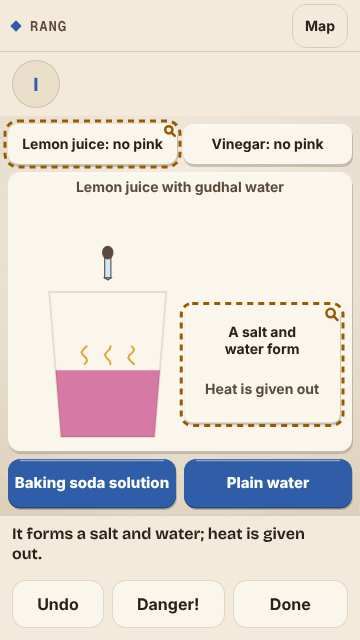
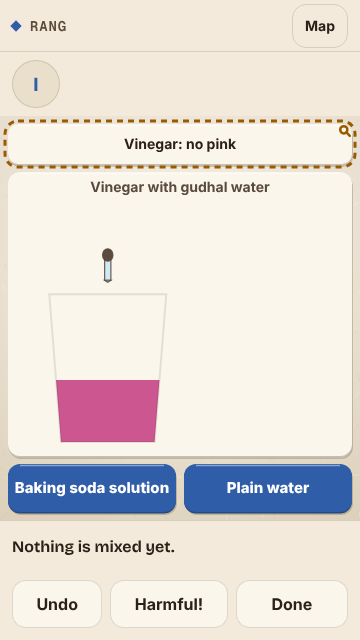
r7 rang: the harm-mix button is the child's claim, "Harmful!" / "Yeh nuksaan karega" (the lead's ruling)
The button was labelled "Danger!" / "Khatra!". It now reads as the child's
claim (t02 m1). The only answer is still the kit's "a salt and water form,
heat is given out": no alarm, no shake, no warning art. The test of rang's
words now also refuses "safe", "harmless", "surakshit" and the Hindi
equivalents. The harm-mix run shots were re-taken by real taps at 360x640,
with a Hinglish one added.

Claude-Session: https://claude.ai/code/session_01Uk49byMD7bvaWtBrGuMPkw

diff --git a/src/play/families/rang/rang.logic.ts b/src/play/families/rang/rang.logic.ts
@@ -28,7 +28,7 @@
 //                       stays blue for it too
 //   water-only (t02 m2) "Done" on a pink glass after plain water went in: water only dilutes; it stays pink, acidic
 //   too-much   (t02 m3) "Done" for no pink after more base than it needed: it has turned green, basic
-//   harm-mix   (t02 m1) "Danger!" once a base has gone into the acid: the label shows what forms, a salt and water (heat
+//   harm-mix   (t02 m1) the claim "Harmful!" ("Yeh nuksaan karega") once a base has gone into the acid: the label shows what forms, a salt and water (heat
 //                       given out); nothing harmful is drawn
 // Not admitted (by the lead's ruling, the teacher's lines, never a mechanic): t01 m1 (acids are dangerous and burn), t01 m2
 // (tasting is fine; acids taste sour), t01 m4 (bases are always safe). No act here tastes, touches or drinks anything.

diff --git a/docs/design/round7/games/runshots-rang/README.md b/docs/design/round7/games/runshots-rang/README.md
@@ -53,7 +53,7 @@ Results:
 | mal-desi-made-red-p360.png | made-red (t01 m3): a base sorted acidic because haldi went red. Gudhal for the same cup is drawn dashed, green: "Gudhal goes green for baking soda solution too: it was basic." |
 | mal-boond-water-only-p360.png, mal-ilaaj-water-only-p360.png | water-only (t02 m2): Done on a pink glass after plain water: "Water only dilutes it: still pink, still acidic." |
 | mal-boond-too-much-p360.png, mal-ilaaj-too-much-p360.png | too-much (t02 m3): Done for no pink after a drop past the right amount. The glass is green: "Green now: the extra base made it basic." |
-| mal-boond-harm-mix-p360.png, mal-ilaaj-harm-mix-p360.png | harm-mix (t02 m1): Danger! once a base is in. Nothing harmful is drawn; the label of what forms is magnified: "It forms a salt and water; heat is given out." |
+| mal-boond-harm-mix-p360.png, mal-ilaaj-harm-mix-p360.png, mal-boond-harm-mix-hinglish-p360.png | harm-mix (t02 m1): the child's claim "Harmful!" (Hinglish "Yeh nuksaan karega") once a base is in; a plain button, no alarm or screen effect. Nothing harmful is drawn; the label of what forms is magnified: "It forms a salt and water; heat is given out." |
 
 Not admitted, by the lead's ruling: t01 m1 (acids are dangerous and burn), t01 m2 (tasting is fine; acids taste sour) and
 t01 m4 (bases are always safe) have no mechanic. They are the teacher's lines.
